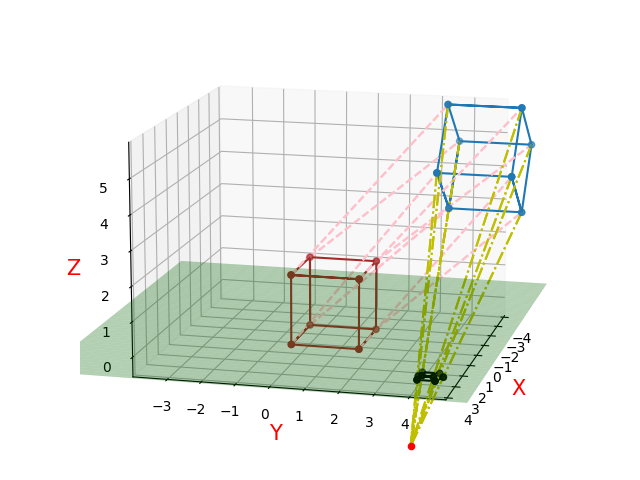
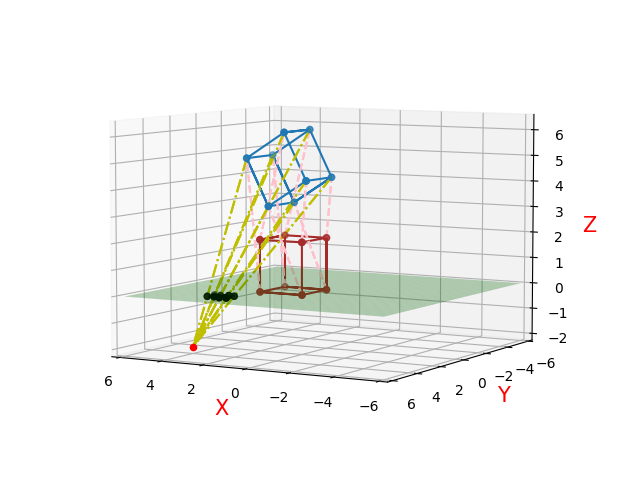
perspective

diff --git a/perspective/perspective.py b/perspective/perspective.py
@@ -138,9 +138,9 @@ points= np.array([[0,0,0,1],
                 
 #获得透视移动后的点和投影后的点
 #per_points=one_point_perspective(6,5,1,view_point,points)
-#per_points=two_point_perspective(6,5,1,40,view_point,points)
+#per_points=two_point_perspective(3,3,2,60,view_point,points)
 #透视移动后的点
-per_points=three_point_perspective(1,-3,3,45,30,view_point,points)
+per_points=three_point_perspective(3,3,2,60,60,view_point,points)
 #投影后的点
 pro_points=projection_trans(view_point,per_points)
 #转为笛卡尔坐标系

diff --git a/perspective/perspective.md b/perspective/perspective.md
@@ -116,7 +116,7 @@ $P_{投影}=\begin{bmatrix} 1&0&0&0\\0&1&0&0\\0&0&1&0 \\ -x_0&-y_0&0&1 \\ \end{b
 </center>
 
 ## 3.2 二点透视
-&emsp;假设移动距离L=6，M=5，N=1，φ=40$^。$
+&emsp;假设移动距离L=3，M=3，N=2，φ=60$^。$
 <center>
 <img src="pic/Figure_4.png" width="400">
 
@@ -127,7 +127,7 @@ $P_{投影}=\begin{bmatrix} 1&0&0&0\\0&1&0&0\\0&0&1&0 \\ -x_0&-y_0&0&1 \\ \end{b
 </center>
 
 ## 3.3 三点透视
-&emsp;假设移动距离L=1，M=-3，N=4，φ=45$^。$,θ=30$^。$
+&emsp;假设移动距离L=3，M=-3，N=2，φ=60$^。$,θ=60$^。$
 <center>
 <img src="pic/Figure_6.png" width="400">
 
